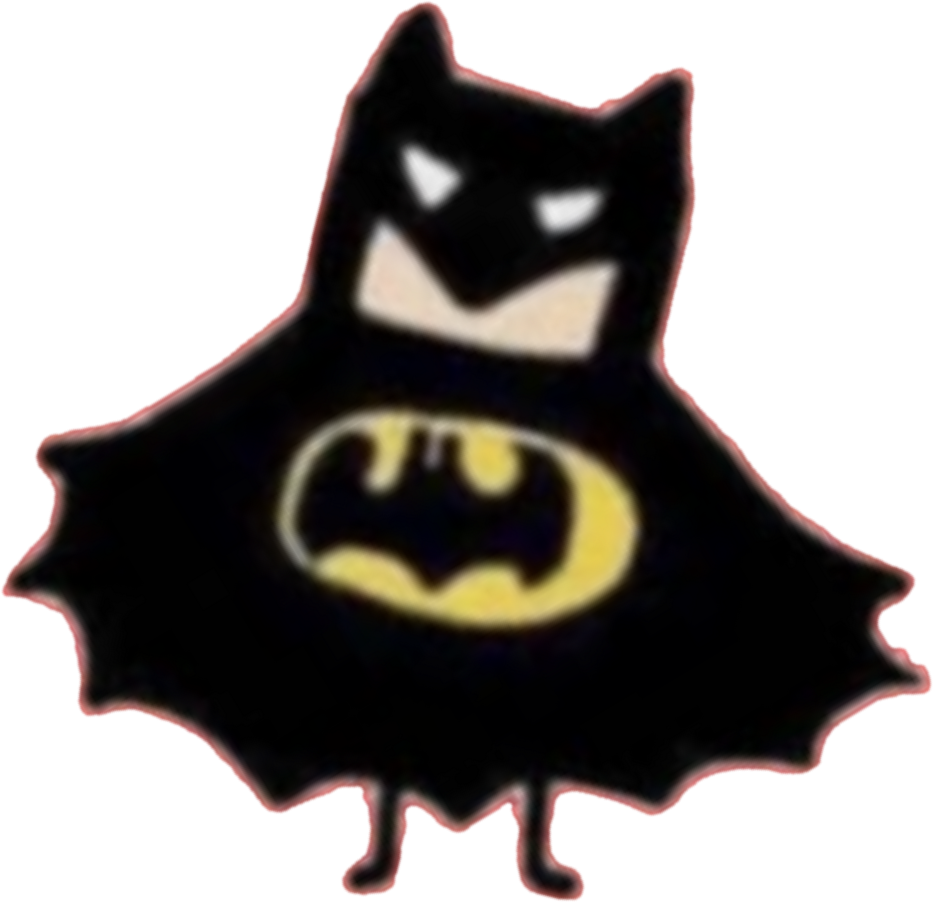
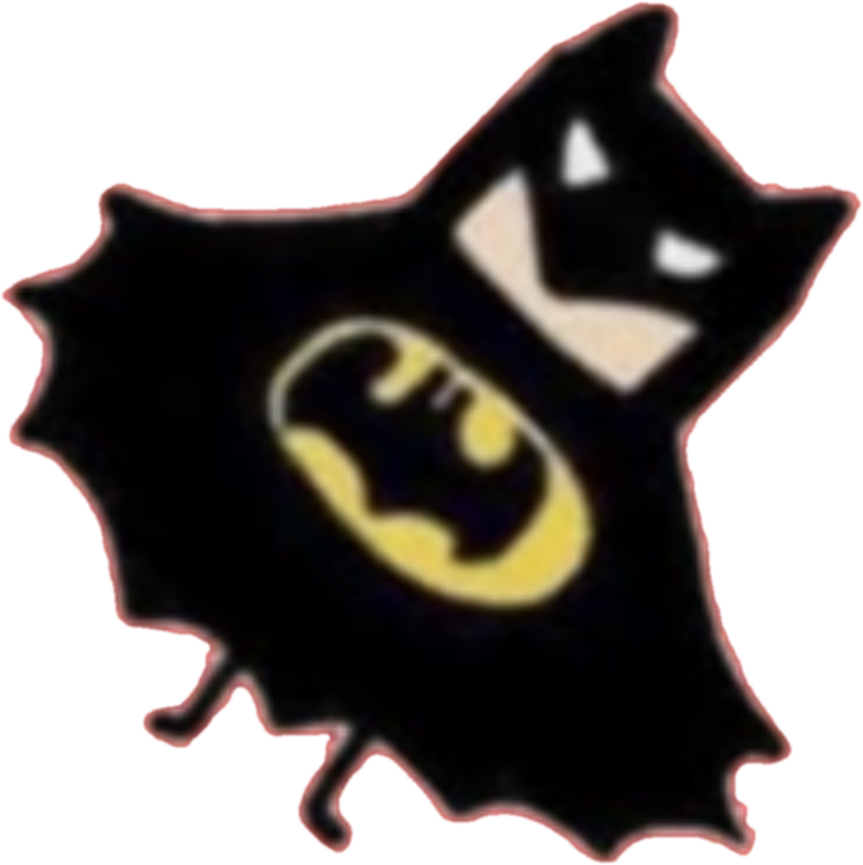
Red tin sticker: exact original design, only flipped right side up; sharper lid
Claude-Session: https://claude.ai/code/session_018nqMn6Gq2PfUDn4Ec5pN2z

diff --git a/ocha-no-pauda/src/components/three/textures.ts b/ocha-no-pauda/src/components/three/textures.ts
@@ -322,15 +322,18 @@ export function makeTinTextures(variant: TinVariant): TinTextures {
   }
 
   // ── lid top ─────────────────────────────────────────────
-  const [t, tctx] = canvas(1024, 1024);
+  // 2048px so the stickers stay crisp; drawing coordinates stay in a 1024 space
+  const [t, tctx] = canvas(2048, 2048);
   if (variant === "silver") {
-    grain(tctx, 1024, 1024, [196, 197, 199], 28);
+    grain(tctx, 2048, 2048, [196, 197, 199], 28);
+    tctx.scale(2, 2);
     if (IMAGES.sticker) {
       const w = 480;
       const h = (w * IMAGES.sticker.height) / IMAGES.sticker.width;
       tctx.drawImage(IMAGES.sticker, 512 - w / 2, 505 - h / 2, w, h);
     } else drawSticker(tctx, 512, 500, 420);
   } else {
+    tctx.scale(2, 2);
     tctx.fillStyle = "#c22a1f";
     tctx.fillRect(0, 0, 1024, 1024);
     // pressed ring near the edge of the lid
